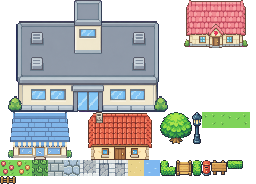
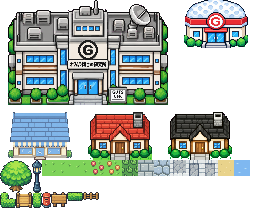
建物差し替え：研究所（大）・自宅・回復の家（ドーム）・その他の家（黒屋根 house2）。tools/town-frame.py 追加（下敷き枠基準で取り込み）
Claude-Session: https://claude.ai/code/session_018VDSYCPciSbMvR8kKaJDnr

diff --git a/js/data.js b/js/data.js
@@ -78,7 +78,7 @@ const DATA = {
   },
   WALKABLE: new Set(['G', 'T', 'F', 'P', 'B', 'D', 'I', 'Q', '.', 'm', 'c']),
   // 置き物（タイル画像の名前）：w,h はマス数、door は左上からのドアの位置（そこだけ通れる）
-  OBJECTS: { house: { w: 5, h: 3, door: [2, 2] }, heal: { w: 5, h: 3, door: [2, 2] }, shop: { w: 5, h: 3, door: [2, 2] }, lab: { w: 11, h: 7, door: [5, 6] } },
+  OBJECTS: { house: { w: 5, h: 3, door: [2, 2] }, house2: { w: 5, h: 3, door: [2, 2] }, heal: { w: 5, h: 3, door: [2, 2] }, shop: { w: 5, h: 3, door: [2, 2] }, lab: { w: 11, h: 7, door: [5, 6] } },
   VOID_ART: 'wallin',
 
   MAPS: {
@@ -306,8 +306,8 @@ const DATA = {
         'WWWWWWWWWPWWWWWWWWWW',
       ],
       objects: [
-        { sprite: 'heal', x: 1, y: 1 }, { sprite: 'house', x: 14, y: 1 },
-        { sprite: 'shop', x: 1, y: 6 }, { sprite: 'house', x: 14, y: 6 },
+        { sprite: 'heal', x: 1, y: 1 }, { sprite: 'house2', x: 14, y: 1 },
+        { sprite: 'shop', x: 1, y: 6 }, { sprite: 'house2', x: 14, y: 6 },
       ],
       events: [
         { x: 9, y: 14, kind: 'warp', to: { map: 'forest', x: 8, y: 1, dir: 'down' } },

diff --git a/tools/town-frame.py b/tools/town-frame.py
@@ -1,0 +1,53 @@
+#!/usr/bin/env python3
+"""下敷き（薄いピンクの枠）に描かれた建物を取り込む。枠の大きさ＝指定ドット数として、ブロック中央値で落とす
+   使い方: python3 tools/town-frame.py <img.png> name=WxH[@CWxCH] [--keybg]
+     --keybg: 枠の四隅から地の色（芝など）を塗りつぶして透明にする
+"""
+import sys, json, os, re
+from PIL import Image
+import numpy as np
+from scipy import ndimage
+exec(open(os.path.join(os.path.dirname(__file__), 'town-fit.py')).read().split("src = Image.open")[0])   # pixelize
+
+src = Image.open(sys.argv[1]).convert('RGB'); a = np.asarray(src).astype(int)
+m = re.match(r'(\w+)=(\d+)x(\d+)(?:@(\d+)x(\d+))?', sys.argv[2]); name, tw, th = m.group(1), int(m.group(2)), int(m.group(3))
+keybg = '--keybg' in sys.argv
+# 枠：薄いピンク（マゼンタより緑が高い）。マゼンタ系は全部「背景」
+mag = (a[:, :, 0] > 200) & (a[:, :, 2] > 200) & (a[:, :, 1] < 170)
+frame = mag & (a[:, :, 1] > 60)
+ys, xs = np.where(frame)
+# 枠の外接矩形（枠の中に絵があるので、枠色の最外周で決める）
+x0, x1, y0, y1 = xs.min(), xs.max() + 1, ys.min(), ys.max() + 1
+if len(xs) == 0 or abs((x1 - x0) / max(1, y1 - y0) - tw / th) > 0.15 * tw / th:
+    # 枠が見つからない（絵で隠れている等）→ 絵そのものの外接矩形を枠とみなす
+    ys, xs = np.where(~mag); x0, x1, y0, y1 = xs.min(), xs.max() + 1, ys.min(), ys.max() + 1
+    print('frame not found; using content bbox')
+print('frame px', (x0, y0, x1 - x0, y1 - y0), 'px/dot', round((x1 - x0) / tw, 2), round((y1 - y0) / th, 2))
+crop = src.crop((x0, y0, x1, y1)).convert('RGBA'); arr = np.asarray(crop).copy()
+mm = mag[y0:y1, x0:x1]; arr[mm, 3] = 0
+if keybg:
+    rgb = arr[:, :, :3].astype(int); h, w = rgb.shape[:2]
+    # 四隅付近の不透明色を地の色とみなす
+    cand = [rgb[h - 3, 2], rgb[h - 3, w - 3], rgb[2, 2], rgb[2, w - 3]]
+    for seed in cand:
+        near = (np.abs(rgb - seed).sum(axis=2) < 60) & (arr[:, :, 3] > 0)
+        lab_, _ = ndimage.label(near)
+        edge = set(lab_[0, :]) | set(lab_[-1, :]) | set(lab_[:, 0]) | set(lab_[:, -1]); edge.discard(0)
+        # 枠に接している（透明に隣接する）成分だけ消す
+        touch = set(np.unique(lab_[np.roll(arr[:, :, 3] == 0, 1, 0) | np.roll(arr[:, :, 3] == 0, -1, 0) | np.roll(arr[:, :, 3] == 0, 1, 1) | np.roll(arr[:, :, 3] == 0, -1, 1)])); touch.discard(0)
+        kill = np.isin(lab_, list(edge | touch)); arr[kill, 3] = 0
+t = pixelize(Image.fromarray(arr), tw, th)
+if m.group(4):
+    cw, ch = int(m.group(4)), int(m.group(5)); c = Image.new('RGBA', (cw, ch), (0, 0, 0, 0)); c.paste(t, ((cw - tw) // 2, ch - th)); t = c
+tiles = {}
+old = Image.open('assets/tiles.png').convert('RGBA'); meta = json.load(open('assets/tiles.json'))
+for k, (x, y, w, h) in meta.items(): tiles[k] = old.crop((x, y, x + w, y + h))
+tiles[name] = t
+items = sorted(tiles.items(), key=lambda kv: (-kv[1].height, -kv[1].width))
+W = 256; x = y = rowh = 0; meta = {}
+sheet = Image.new('RGBA', (W, 2048), (0, 0, 0, 0))
+for k, tt in items:
+    if x + tt.width > W: x = 0; y += rowh; rowh = 0
+    sheet.paste(tt, (x, y)); meta[k] = [x, y, tt.width, tt.height]; x += tt.width; rowh = max(rowh, tt.height)
+sheet = sheet.crop((0, 0, W, y + rowh)); sheet.save('assets/tiles.png'); json.dump(meta, open('assets/tiles.json', 'w'))
+print(name, t.size, 'tiles:', len(meta))
